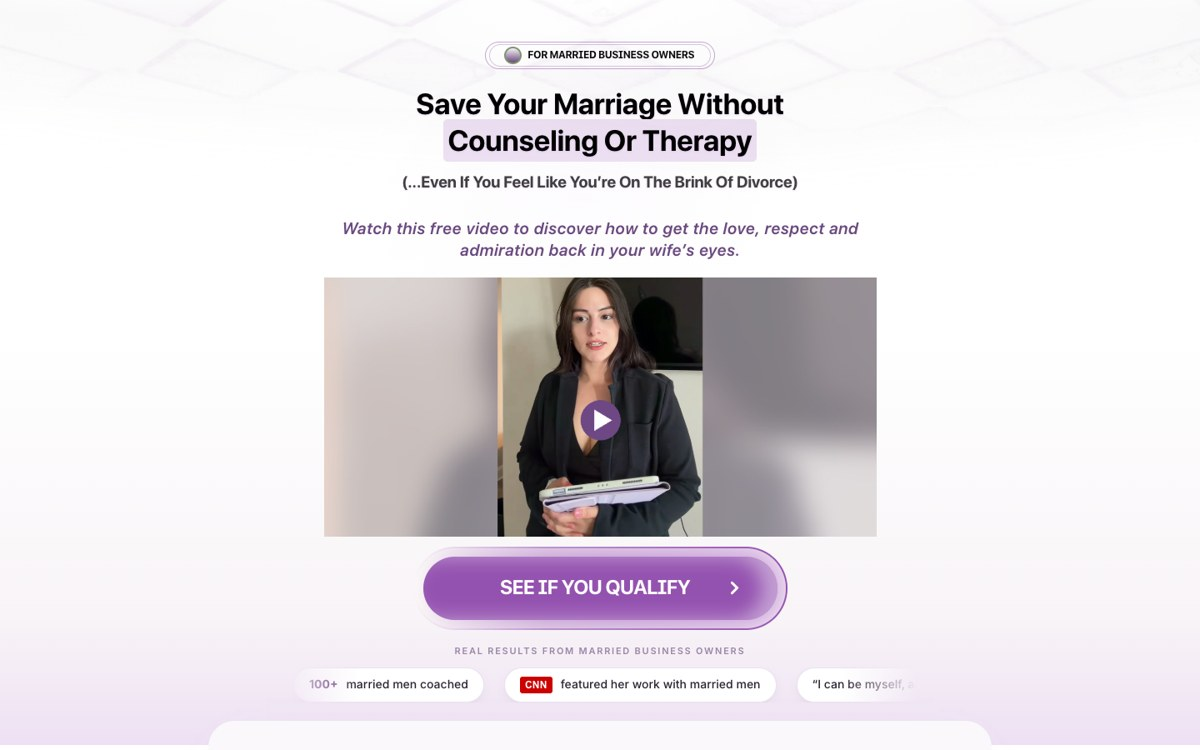
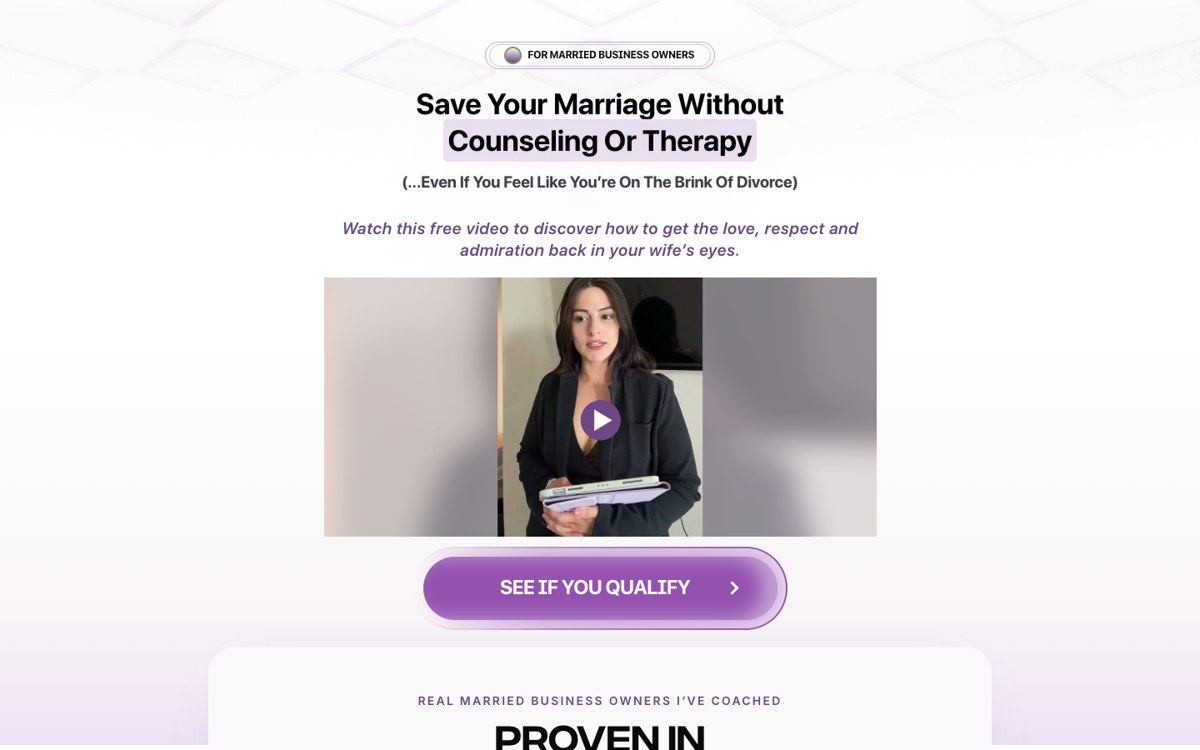
VSL page: real client testimonials instead of results bar; hub beat 02 about men not ready for a call

Changed region(s): [[0.2467, 0.8587, 0.6475, 1.0], [0.6783, 0.8893, 0.7708, 0.92]]

diff --git a/video/index.html b/video/index.html
@@ -337,7 +337,7 @@
 	<!-- Global site tag (gtag.js) - Google Analytics -->
 	
 <style data-noscrollbar>html,body,*{scrollbar-width:none;-ms-overflow-style:none}html::-webkit-scrollbar,body::-webkit-scrollbar,*::-webkit-scrollbar{display:none;width:0;height:0}</style>
-<style>[data-framer-name="TESTIMONIALS"]{display:none!important}.rx{margin:6px auto 0;max-width:760px;text-align:center}.rx-l{font:600 11px/1 Inter,system-ui,sans-serif;letter-spacing:.16em;text-transform:uppercase;color:#9a86a6;margin:0 0 14px}.rx-w{position:relative;overflow:hidden;-webkit-mask-image:linear-gradient(90deg,transparent,#000 12%,#000 88%,transparent);mask-image:linear-gradient(90deg,transparent,#000 12%,#000 88%,transparent)}.rx-t{display:flex;width:max-content;animation:rxs 34s linear infinite}.rx-t:hover{animation-play-state:paused}.rx-i{display:flex;align-items:center;gap:10px;margin:0 12px;padding:10px 18px;border-radius:999px;background:#fff;border:1px solid #eadff0;box-shadow:0 6px 18px -12px rgba(94,52,115,.45);white-space:nowrap;font:500 14px/1.2 Inter,system-ui,sans-serif;color:#2a2230}.rx-i b{font-weight:800;color:#5e3473}.rx-i .cnn{background:#cc0000;color:#fff;font:900 12px/1 Arial,sans-serif;padding:4px 6px;border-radius:3px;letter-spacing:.02em}@keyframes rxs{to{transform:translateX(-50%)}}@media (max-width:640px){.rx-i{font-size:12.5px;padding:8px 14px;margin:0 7px}.rx-t{animation-duration:26s}}@media (prefers-reduced-motion:reduce){.rx-t{animation:none}}</style></head>
+<style>[data-framer-name="TESTIMONIALS"]{display:none!important}</style><style>.tq-g{display:grid;grid-template-columns:repeat(3,1fr);gap:16px;margin-top:26px}.tq-c{margin:0;border-radius:18px;overflow:hidden;background:#fff;border:1px solid #eadff0;box-shadow:0 18px 34px -24px rgba(94,52,115,.55)}.tq-c img{display:block;width:100%;height:auto}@media (max-width:640px){.tq-g{grid-template-columns:repeat(2,1fr);gap:10px}.tq-c{border-radius:12px}.tq-c:last-child{grid-column:1/-1;width:calc(50% - 5px);justify-self:center}}</style></head>
 <body>
 	
 	<!-- Start of bodyStart -->
@@ -345,7 +345,6 @@
     <!-- End of bodyStart -->
 	
 	<div id="main" data-framer-hydrate-v2="{&quot;routeId&quot;:&quot;h5i_oXUbv&quot;,&quot;localeId&quot;:&quot;default&quot;,&quot;breakpoints&quot;:[{&quot;hash&quot;:&quot;4s8koe&quot;,&quot;mediaQuery&quot;:&quot;(min-width: 1200px)&quot;},{&quot;hash&quot;:&quot;uwvbux&quot;,&quot;mediaQuery&quot;:&quot;(min-width: 810px) and (max-width: 1199.98px)&quot;},{&quot;hash&quot;:&quot;iz4sl3&quot;,&quot;mediaQuery&quot;:&quot;(min-width: 414px) and (max-width: 809.98px)&quot;},{&quot;hash&quot;:&quot;1br1e2t&quot;,&quot;mediaQuery&quot;:&quot;(max-width: 413.98px)&quot;}]}" data-framer-ssr-released-at="2026-09-29T13:05:31.037Z" data-framer-page-optimized-at="2026-09-29T19:42:05.962Z" data-framer-generated-page><!--$--><style data-framer-html-style>html body { background: rgb(255, 255, 255); }</style><div data-framer-root class="framer-X8zpi framer-Y1jLK framer-4s8koe" style="min-height:100vh;width:auto"><div class="framer-q2tiia"><div class="framer-1xpcqbd" data-framer-name="bg shape" style="transform:rotate(-43deg)"></div></div><div class="framer-17dakj4 hidden-4s8koe hidden-uwvbux hidden-iz4sl3"><div class="framer-msisua" data-border="true"><div class="framer-1wldt96" data-border="true" data-framer-name="Alert"><div class="framer-14oqm4g" data-framer-name="Pulse"><div class="framer-1hjm7bx" data-framer-name="Small"></div><div class="framer-rq7udd" data-framer-name="Big" style="will-change:transform;opacity:0.4;transform:none"></div></div><div class="framer-1khw9ha" data-framer-component-type="RichTextContainer" style="transform:none"><p dir="auto" style="--font-selector:Q1VTVE9NVjI7U0YgUHJvIERpc3BsYXkgQm9sZA==;--framer-font-family:&quot;SF Pro Display Bold&quot;, &quot;SF Pro Display Bold Placeholder&quot;, sans-serif;--framer-font-open-type-features:'cv01' on, 'cv09' on, 'cv11' on, 'cv05' on, 'ss03' on;--framer-font-size:12px;--framer-font-weight:700;--framer-letter-spacing:0.01em;--framer-text-color:var(--token-b268148b-59de-488b-84bf-ae89da343fe3, rgb(10, 10, 10))" class="framer-text">FOR MARRIED BUSINESS OWNERS</p></div></div></div></div><div class="framer-tpus61" data-framer-name="HERO"><div class="framer-1c7eb5z" data-framer-name="UPPERPART"><div class="framer-1u1eqik" data-framer-name="main"><div class="framer-3c9dne"><div class="framer-2tj5pi" data-framer-name="main"><div class="framer-csus2r"><div class="framer-efgnys" data-framer-name="main"><div class="framer-5fq69k hidden-1br1e2t" data-border="true"><div class="framer-k2ezid hidden-iz4sl3" data-border="true" data-framer-name="Alert"><div class="framer-17cyu9v" data-framer-name="Pulse"><div class="framer-1uqd4z8" data-framer-name="Small"></div><div class="framer-vag2ty" data-framer-name="Big" style="will-change:transform;opacity:0.4;transform:none"></div></div><div class="ssr-variant hidden-uwvbux"><div class="framer-bhxyn7" data-framer-component-type="RichTextContainer" style="transform:none"><p dir="auto" style="--font-selector:Q1VTVE9NVjI7U0YgUHJvIERpc3BsYXkgQm9sZA==;--framer-font-family:&quot;SF Pro Display Bold&quot;, &quot;SF Pro Display Bold Placeholder&quot;, sans-serif;--framer-font-open-type-features:'cv01' on, 'cv09' on, 'cv11' on, 'cv05' on, 'ss03' on;--framer-font-size:12px;--framer-font-weight:700;--framer-letter-spacing:0.01em;--framer-text-color:var(--token-b268148b-59de-488b-84bf-ae89da343fe3, rgb(10, 10, 10))" class="framer-text">FOR MARRIED BUSINESS OWNERS</p></div></div><div class="ssr-variant hidden-iz4sl3 hidden-1br1e2t hidden-4s8koe"><div class="framer-bhxyn7" data-framer-component-type="RichTextContainer" style="transform:none"><p dir="auto" style="--font-selector:Q1VTVE9NVjI7U0YgUHJvIERpc3BsYXkgQm9sZA==;--framer-font-family:&quot;SF Pro Display Bold&quot;, &quot;SF Pro Display Bold Placeholder&quot;, sans-serif;--framer-font-open-type-features:'cv01' on, 'cv09' on, 'cv11' on, 'cv05' on, 'ss03' on;--framer-font-size:11px;--framer-font-weight:700;--framer-letter-spacing:0.01em;--framer-text-color:var(--token-b268148b-59de-488b-84bf-ae89da343fe3, rgb(10, 10, 10))" class="framer-text">FOR MARRIED BUSINESS OWNERS</p></div></div></div><div class="framer-9qt16u hidden-4s8koe hidden-uwvbux" data-border="true"><div class="framer-vjqidj" data-border="true" data-framer-name="Alert"><div class="framer-1y2ulve" data-framer-name="Pulse"><div class="framer-k6xz6w" data-framer-name="Small"></div><div class="framer-11rk619" data-framer-name="Big" style="will-change:transform;opacity:0.4;transform:none"></div></div><div class="framer-1fw6d6x" data-framer-component-type="RichTextContainer" style="transform:none"><p dir="auto" style="--font-selector:Q1VTVE9NVjI7U0YgUHJvIERpc3BsYXkgQm9sZA==;--framer-font-family:&quot;SF Pro Display Bold&quot;, &quot;SF Pro Display Bold Placeholder&quot;, sans-serif;--framer-font-open-type-features:'cv01' on, 'cv09' on, 'cv11' on, 'cv05' on, 'ss03' on;--framer-font-size:12px;--framer-font-weight:700;--framer-letter-spacing:0.01em;--framer-text-color:var(--token-b268148b-59de-488b-84bf-ae89da343fe3, rgb(10, 10, 10))" class="framer-text">FOR MARRIED BUSINESS OWNERS</p></div></div></div></div><div class="ssr-variant hidden-iz4sl3 hidden-1br1e2t hidden-uwvbux"><div class="framer-1u7wy1i" data-framer-name="WTITLE2" data-selection="true" data-framer-component-type="RichTextContainer" style="transform:none"><p dir="auto" style="--font-selector:Q1VTVE9NVjI7U0YgUHJvIERpc3BsYXkgQm9sZA==;--framer-font-family:&quot;SF Pro Display Bold&quot;, &quot;SF Pro Display Bold Placeholder&quot;, sans-serif;--framer-font-size:35px;--framer-font-weight:700;--framer-line-height:1.25em;--framer-text-alignment:center" class="framer-text">Save Your Marriage Without</p><p dir="auto" style="--font-selector:Q1VTVE9NVjI7U0YgUHJvIERpc3BsYXkgQm9sZA==;--framer-font-family:&quot;SF Pro Display Bold&quot;, &quot;SF Pro Display Bold Placeholder&quot;, sans-serif;--framer-font-size:35px;--framer-font-weight:700;--framer-line-height:1.25em;--framer-text-alignment:center" class="framer-text"><mark style="--framer-text-background-color:rgb(237, 224, 243);--framer-text-background-padding:5px;--framer-text-background-radius:5px" class="framer-text">Counseling Or Therapy</mark><span class="rp-wo">(...Even If You Feel Like You&rsquo;re On The Brink Of Divorce)</span></p></div></div><div class="ssr-variant hidden-1br1e2t hidden-uwvbux hidden-4s8koe"><div class="framer-1u7wy1i" data-framer-name="WTITLE2" data-selection="true" data-framer-component-type="RichTextContainer" style="transform:none"><p dir="auto" style="--font-selector:Q1VTVE9NVjI7U0YgUHJvIERpc3BsYXkgQm9sZA==;--framer-font-family:&quot;SF Pro Display Bold&quot;, &quot;SF Pro Display Bold Placeholder&quot;, sans-serif;--framer-font-size:27px;--framer-font-weight:700;--framer-line-height:1.25em;--framer-text-alignment:center" class="framer-text">Save Your Marriage Without</p><p dir="auto" style="--font-selector:Q1VTVE9NVjI7U0YgUHJvIERpc3BsYXkgQm9sZA==;--framer-font-family:&quot;SF Pro Display Bold&quot;, &quot;SF Pro Display Bold Placeholder&quot;, sans-serif;--framer-font-size:27px;--framer-font-weight:700;--framer-line-height:1.25em;--framer-text-alignment:center" class="framer-text"><mark style="--framer-text-background-color:rgb(237, 224, 243);--framer-text-background-padding:5px;--framer-text-background-radius:5px" class="framer-text">Counseling Or Therapy</mark><span class="rp-wo">(...Even If You Feel Like You&rsquo;re On The Brink Of Divorce)</span></p></div></div><div class="ssr-variant hidden-iz4sl3 hidden-uwvbux hidden-4s8koe"><div class="framer-1u7wy1i" data-framer-name="WTITLE2" data-selection="true" data-framer-component-type="RichTextContainer" style="transform:none"><p dir="auto" style="--font-selector:Q1VTVE9NVjI7U0YgUHJvIERpc3BsYXkgQm9sZA==;--framer-font-family:&quot;SF Pro Display Bold&quot;, &quot;SF Pro Display Bold Placeholder&quot;, sans-serif;--framer-font-size:25px;--framer-font-weight:700;--framer-line-height:1.25em;--framer-text-alignment:center" class="framer-text">Save Your Marriage Without</p><p dir="auto" style="--font-selector:Q1VTVE9NVjI7U0YgUHJvIERpc3BsYXkgQm9sZA==;--framer-font-family:&quot;SF Pro Display Bold&quot;, &quot;SF Pro Display Bold Placeholder&quot;, sans-serif;--framer-font-size:25px;--framer-font-weight:700;--framer-line-height:1.25em;--framer-text-alignment:center" class="framer-text"><mark style="--framer-text-background-color:rgb(237, 224, 243);--framer-text-background-padding:5px;--framer-text-background-radius:5px" class="framer-text">Counseling Or Therapy</mark><span class="rp-wo">(...Even If You Feel Like You&rsquo;re On The Brink Of Divorce)</span></p></div></div><div class="ssr-variant hidden-iz4sl3 hidden-1br1e2t hidden-4s8koe"><div class="framer-1u7wy1i" data-framer-name="WTITLE2" data-selection="true" data-framer-component-type="RichTextContainer" style="transform:none"><p dir="auto" style="--font-selector:Q1VTVE9NVjI7U0YgUHJvIERpc3BsYXkgQm9sZA==;--framer-font-family:&quot;SF Pro Display Bold&quot;, &quot;SF Pro Display Bold Placeholder&quot;, sans-serif;--framer-font-size:35px;--framer-font-weight:700;--framer-line-height:1.25em;--framer-text-alignment:center" class="framer-text">Save Your Marriage Without</p><p dir="auto" style="--font-selector:Q1VTVE9NVjI7U0YgUHJvIERpc3BsYXkgQm9sZA==;--framer-font-family:&quot;SF Pro Display Bold&quot;, &quot;SF Pro Display Bold Placeholder&quot;, sans-serif;--framer-font-size:35px;--framer-font-weight:700;--framer-line-height:1.25em;--framer-text-alignment:center" class="framer-text"><mark style="--framer-text-background-color:rgb(237, 224, 243);--framer-text-background-padding:5px;--framer-text-background-radius:5px" class="framer-text">Counseling Or Therapy</mark><span class="rp-wo">(...Even If You Feel Like You&rsquo;re On The Brink Of Divorce)</span></p></div></div><div class="ssr-variant hidden-iz4sl3 hidden-1br1e2t"><div class="framer-133eyea hidden-uwvbux" data-framer-name="WSUB2" data-selection="true" data-framer-component-type="RichTextContainer" style="transform:none"><p dir="auto" style="--font-selector:Q1VTVE9NVjI7U0YgUHJvIERpc3BsYXkgU2VtaWJvbGQgSXRhbGlj;--framer-font-family:&quot;SF Pro Display Semibold Italic&quot;, &quot;SF Pro Display Semibold Italic Placeholder&quot;, sans-serif;--framer-font-size:20px;--framer-font-weight:600;--framer-letter-spacing:0.03em;--framer-line-height:1.3em;--framer-text-alignment:center;--framer-text-color:var(--token-60dd54ff-967d-4bdd-a395-66d9ee4c573e, rgb(130, 150, 114))" class="framer-text">Watch this free video to discover how to get the love, respect and admiration back in your wife&rsquo;s eyes.</p></div></div><div class="ssr-variant hidden-1br1e2t hidden-uwvbux hidden-4s8koe"><div class="framer-133eyea hidden-uwvbux" data-framer-name="WSUB2" data-selection="true" data-framer-component-type="RichTextContainer" style="transform:none"><p dir="auto" style="--font-selector:Q1VTVE9NVjI7U0YgUHJvIERpc3BsYXkgU2VtaWJvbGQgSXRhbGlj;--framer-font-family:&quot;SF Pro Display Semibold Italic&quot;, &quot;SF Pro Display Semibold Italic Placeholder&quot;, sans-serif;--framer-font-size:18px;--framer-font-weight:600;--framer-letter-spacing:0.03em;--framer-line-height:20px;--framer-text-alignment:center;--framer-text-color:var(--token-60dd54ff-967d-4bdd-a395-66d9ee4c573e, rgb(130, 150, 114))" class="framer-text">Watch this free video to discover how to get</p><p dir="auto" style="--font-selector:Q1VTVE9NVjI7U0YgUHJvIERpc3BsYXkgU2VtaWJvbGQgSXRhbGlj;--framer-font-family:&quot;SF Pro Display Semibold Italic&quot;, &quot;SF Pro Display Semibold Italic Placeholder&quot;, sans-serif;--framer-font-size:18px;--framer-font-weight:600;--framer-letter-spacing:0.03em;--framer-line-height:20px;--framer-text-alignment:center;--framer-text-color:var(--token-60dd54ff-967d-4bdd-a395-66d9ee4c573e, rgb(130, 150, 114))" class="framer-text">the love, respect and admiration back in your wife&rsquo;s eyes.</p></div></div><div class="ssr-variant hidden-iz4sl3 hidden-uwvbux hidden-4s8koe"><div class="framer-133eyea hidden-uwvbux" data-framer-name="WSUB2" data-selection="true" data-framer-component-type="RichTextContainer" style="transform:none"><p dir="auto" style="--font-selector:Q1VTVE9NVjI7U0YgUHJvIERpc3BsYXkgU2VtaWJvbGQgSXRhbGlj;--framer-font-family:&quot;SF Pro Display Semibold Italic&quot;, &quot;SF Pro Display Semibold Italic Placeholder&quot;, sans-serif;--framer-font-size:17px;--framer-font-weight:600;--framer-letter-spacing:0.03em;--framer-line-height:20px;--framer-text-alignment:center;--framer-text-color:var(--token-60dd54ff-967d-4bdd-a395-66d9ee4c573e, rgb(130, 150, 114))" class="framer-text">Watch this free video to discover how to get</p><p dir="auto" style="--font-selector:Q1VTVE9NVjI7U0YgUHJvIERpc3BsYXkgU2VtaWJvbGQgSXRhbGlj;--framer-font-family:&quot;SF Pro Display Semibold Italic&quot;, &quot;SF Pro Display Semibold Italic Placeholder&quot;, sans-serif;--framer-font-size:17px;--framer-font-weight:600;--framer-letter-spacing:0.03em;--framer-line-height:20px;--framer-text-alignment:center;--framer-text-color:var(--token-60dd54ff-967d-4bdd-a395-66d9ee4c573e, rgb(130, 150, 114))" class="framer-text">the love, respect and admiration back in your wife&rsquo;s eyes.</p></div></div><div class="framer-5onn8g-container" data-framer-name="main" name="main"><!--$--><div class="ssr-variant hidden-iz4sl3 hidden-1br1e2t"><img src="../assets/img/lp/vsl_thumb.jpg" alt="Watch the video" style="display:block;width:100%;height:auto;aspect-ratio:2.1333;object-fit:cover;border-radius:inherit;cursor:pointer"></div><div class="ssr-variant hidden-uwvbux hidden-4s8koe"><img src="../assets/img/lp/vsl_thumb.jpg" alt="Watch the video" style="display:block;width:100%;height:auto;aspect-ratio:2.1333;object-fit:cover;border-radius:inherit;cursor:pointer"></div><!--/$--></div><div class="framer-9o72vd hidden-4s8koe hidden-1br1e2t hidden-iz4sl3" data-framer-name="WSUB2" data-selection="true" data-framer-component-type="RichTextContainer" style="transform:none"><p dir="auto" style="--font-selector:Q1VTVE9NVjI7U0YgUHJvIERpc3BsYXkgU2VtaWJvbGQgSXRhbGlj;--framer-font-family:&quot;SF Pro Display Semibold Italic&quot;, &quot;SF Pro Display Semibold Italic Placeholder&quot;, sans-serif;--framer-font-size:20px;--framer-font-weight:600;--framer-letter-spacing:0.03em;--framer-line-height:1.3em;--framer-text-alignment:center;--framer-text-color:var(--token-60dd54ff-967d-4bdd-a395-66d9ee4c573e, rgb(130, 150, 114))" class="framer-text">Watch this free video to discover how to get the love, respect and admiration back in your wife&rsquo;s eyes.</p></div></div></div></div></div></div></div><div class="framer-2bt8ym" data-framer-name="LOWERPART"><div class="framer-mkelf" id="mkelf"><div class="framer-r6ybmd"><div class="framer-km6ps3"><div class="framer-u14wqm"><div class="framer-1habm5t"><div class="ssr-variant hidden-iz4sl3 hidden-1br1e2t"><div class="framer-65of25-container" id="65of25"><!--$--><a class="framer-fKeW8 framer-1ylc52x framer-v-1ylc52x framer-1djlza1" data-framer-name="Variant 1" data-highlight="true" tabindex="0" style="background:linear-gradient(90deg, rgba(255, 255, 255, 0) 0%, rgba(148,82,176, 0.6) 35.63529349662162%, var(--token-78ab1caa-2397-409b-a711-af0f2c84a0c3, rgb(148, 82, 176)) 100%);border-bottom-left-radius:99999px;border-bottom-right-radius:99999px;border-top-left-radius:99999px;border-top-right-radius:99999px"><div class="framer-hbrjzz" style="background:linear-gradient(270deg, rgb(207, 169, 223) 0%, rgba(234,228,237, 0) 100%);border-bottom-left-radius:99999px;border-bottom-right-radius:99999px;border-top-left-radius:99999px;border-top-right-radius:99999px;box-shadow:inset -1px 0px 26px 4px rgba(253, 250, 247, 0.71)"><div class="framer-5opsfe" style="background-color:var(--token-78ab1caa-2397-409b-a711-af0f2c84a0c3, rgb(151, 92, 176));border-bottom-left-radius:99999px;border-bottom-right-radius:99999px;border-top-left-radius:99999px;border-top-right-radius:99999px;box-shadow:inset -17px 0px 21px 1px rgba(255, 255, 255, 0.44)"><div class="framer-1hrjr2s"><div class="framer-w7ozlh" data-framer-component-type="RichTextContainer" style="--extracted-1of0zx5:rgb(255, 255, 255);--framer-link-text-color:rgb(0, 153, 255);--framer-link-text-decoration:underline;transform:translate(-50%, -50%)"><h2 dir="auto" class="framer-text" style="--font-selector:Q1VTVE9NVjI7U0YgUHJvIERpc3BsYXkgQm9sZA==;--framer-font-family:&quot;SF Pro Display Bold&quot;, &quot;SF Pro Display Bold Placeholder&quot;, sans-serif;--framer-font-open-type-features:'cv01' on, 'cv09' on, 'cv11' on, 'cv05' on, 'ss03' on;--framer-font-size:24px;--framer-font-weight:700;--framer-letter-spacing:-0.02em;--framer-line-height:1em;--framer-text-alignment:center;--framer-text-color:var(--extracted-1of0zx5, rgb(255, 255, 255))">SEE IF YOU QUALIFY</h2></div><div data-framer-component-type="SVG" parentsize="0" _constraints="[object Object]" rotation="0" shadows class="framer-12bnssz" aria-hidden="true" style="image-rendering:pixelated;flex-shrink:0;fill:rgb(255, 255, 255);color:rgb(255, 255, 255)"><div class="svgContainer" style="width:100%;height:100%;aspect-ratio:inherit"><svg style="width:100%;height:100%;"><use href="#svg-866811255_189"/></svg></div></div><div data-framer-component-type="SVG" parentsize="0" _constraints="[object Object]" rotation="0" shadows class="framer-dgrylw" aria-hidden="true" style="image-rendering:pixelated;flex-shrink:0;fill:var(--token-1ee6d819-e713-432d-a5bd-cf23d9294804, rgb(234, 234, 234));color:var(--token-1ee6d819-e713-432d-a5bd-cf23d9294804, rgb(234, 234, 234))"><div class="svgContainer" style="width:100%;height:100%;aspect-ratio:inherit"><svg style="width:100%;height:100%;"><use href="#svg-866811255_189"/></svg></div></div></div></div></div></a><!--/$--></div></div><div class="ssr-variant hidden-uwvbux hidden-4s8koe"><div class="framer-65of25-container" id="65of25"><!--$--><a class="framer-fKeW8 framer-1ylc52x framer-v-15c24n7 framer-1djlza1" data-framer-name="Mobile" data-highlight="true" tabindex="0" style="background:linear-gradient(90deg, rgba(255, 255, 255, 0) 0%, rgba(148,82,176, 0.6) 35.63529349662162%, var(--token-78ab1caa-2397-409b-a711-af0f2c84a0c3, rgb(148, 82, 176)) 100%);border-bottom-left-radius:99999px;border-bottom-right-radius:99999px;border-top-left-radius:99999px;border-top-right-radius:99999px"><div class="framer-hbrjzz" style="background:linear-gradient(270deg, rgb(207, 169, 223) 0%, rgba(234,228,237, 0) 100%);border-bottom-left-radius:99999px;border-bottom-right-radius:99999px;border-top-left-radius:99999px;border-top-right-radius:99999px;box-shadow:inset -1px 0px 26px 4px rgba(253, 250, 247, 0.71)"><div class="framer-5opsfe" style="background-color:var(--token-78ab1caa-2397-409b-a711-af0f2c84a0c3, rgb(151, 92, 176));border-bottom-left-radius:99999px;border-bottom-right-radius:99999px;border-top-left-radius:99999px;border-top-right-radius:99999px;box-shadow:inset -17px 0px 21px 1px rgba(255, 255, 255, 0.44)"><div class="framer-1hrjr2s"><div class="framer-w7ozlh" data-framer-component-type="RichTextContainer" style="--extracted-1of0zx5:rgb(255, 255, 255);--framer-link-text-color:rgb(0, 153, 255);--framer-link-text-decoration:underline;transform:translate(-50%, -50%)"><h2 dir="auto" class="framer-text" style="--font-selector:Q1VTVE9NVjI7U0YgUHJvIERpc3BsYXkgQm9sZA==;--framer-font-family:&quot;SF Pro Display Bold&quot;, &quot;SF Pro Display Bold Placeholder&quot;, sans-serif;--framer-font-open-type-features:'cv01' on, 'cv09' on, 'cv11' on, 'cv05' on, 'ss03' on;--framer-font-size:22px;--framer-font-weight:700;--framer-letter-spacing:-0.02em;--framer-line-height:1em;--framer-text-alignment:center;--framer-text-color:var(--extracted-1of0zx5, rgb(255, 255, 255))">SEE IF YOU QUALIFY</h2></div><div data-framer-component-type="SVG" parentsize="0" _constraints="[object Object]" rotation="0" shadows class="framer-12bnssz" aria-hidden="true" style="image-rendering:pixelated;flex-shrink:0;fill:rgb(255, 255, 255);color:rgb(255, 255, 255)"><div class="svgContainer" style="width:100%;height:100%;aspect-ratio:inherit"><svg style="width:100%;height:100%;"><use href="#svg-866811255_189"/></svg></div></div></div></div></div></a><!--/$--></div></div></div></div></div></div></div></div></div><div class="framer-1kycvi1 hidden-4s8koe hidden-uwvbux"><div class="framer-gh8c0y"><div class="framer-9itru8" data-framer-name="bg shape" style="transform:rotate(-43deg)"></div></div></div><div class="framer-pqhicm" style="transform:translateX(-50%)"><div class="framer-1l29gjx" data-framer-name="bg shape" style="transform:rotate(-43deg)"></div></div><div class="framer-10c3wkd"><div class="framer-1la01sa" data-framer-name="bg shape" style="transform:rotate(-43deg)"></div></div><section class="rp-more">
-<div class="rx"><p class="rx-l">Real results from married business owners</p><div class="rx-w"><div class="rx-t" aria-label="Client results"><span class="rx-i"><b>100+</b> married men coached</span><span class="rx-i"><span class="cnn">CNN</span> featured her work with married men</span><span class="rx-i">&ldquo;I can be myself, and that&rsquo;s okay&rdquo; <b>&middot; client, 30 days in</b></span><span class="rx-i"><b>1.4M</b> views on one video</span><span class="rx-i"><b>Zero</b> couples therapy</span><span class="rx-i"><b>100+</b> married men coached</span><span class="rx-i"><span class="cnn">CNN</span> featured her work with married men</span><span class="rx-i">&ldquo;I can be myself, and that&rsquo;s okay&rdquo; <b>&middot; client, 30 days in</b></span><span class="rx-i"><b>1.4M</b> views on one video</span><span class="rx-i"><b>Zero</b> couples therapy</span></div></div></div>
 <div class="rp-sec">
   <p class="rp-kick">Real married business owners I&rsquo;ve coached</p>
   <h2 class="rp-h"><span>PROVEN IN</span><span class="g">REAL MARRIAGES.</span></h2>
@@ -355,7 +354,12 @@
     <div><b>1.4M</b><span>views on one video, because men see their own marriage in it</span></div>
     <div><b>CNN</b><span>featured my work with married men and the way I coach them</span></div>
   </div>
-  <p class="rp-note">Their fights got shorter and stopped spiraling into old history. Their wives finally understood what had been bothering them. More of it lands in my &ldquo;Testimonials&rdquo; highlight.</p>
+  <p class="rp-note">One couple who run a business together went from fighting every day to going weeks without a fight. Here&rsquo;s what my clients say in their own words.</p>
+</div>
+<div class="rp-sec tq">
+  <p class="rp-kick">Client testimonials</p>
+  <h2 class="rp-h"><span>REAL CLIENTS.</span><span class="g">REAL WORDS.</span></h2>
+  <div class="tq-g"><figure class="tq-c"><img src="../assets/img/testi/t1.jpg" alt="Client testimonial: this is one of the best investments I have ever made" loading="lazy"></figure><figure class="tq-c"><img src="../assets/img/testi/t2.jpg" alt="Client testimonial video" loading="lazy"></figure><figure class="tq-c"><img src="../assets/img/testi/t3.jpg" alt="A CEO of a 7 figure software company was too nice with his team" loading="lazy"></figure><figure class="tq-c"><img src="../assets/img/testi/t4.jpg" alt="After working together his revenue doubled and he felt like himself" loading="lazy"></figure><figure class="tq-c"><img src="../assets/img/testi/t5.jpg" alt="Here is what he had to say" loading="lazy"></figure><figure class="tq-c"><img src="../assets/img/testi/t6.jpg" alt="Client: other therapists don't think as deep as you" loading="lazy"></figure><figure class="tq-c"><img src="../assets/img/testi/t7.jpg" alt="They tried therapy, it didn't work: make it work or get divorced" loading="lazy"></figure><figure class="tq-c"><img src="../assets/img/testi/t8.jpg" alt="It was worth every cent" loading="lazy"></figure><figure class="tq-c"><img src="../assets/img/testi/t9.jpg" alt="After coaching, this couple goes weeks without fighting" loading="lazy"></figure></div>
 </div>
 <div class="rp-sec">
   <p class="rp-kick">01 &middot; Sound familiar?</p>

diff --git a/index.html b/index.html
@@ -152,8 +152,8 @@
           <div class="beat__num"><span class="beat__idx">02</span><span class="beat__rule"></span></div>
           <div class="beat__copy">
             <p class="beat__kicker">Your funnel</p>
-            <h3 class="beat__title">There&rsquo;s no free step before the call.</h3>
-            <p class="beat__text">Right now there&rsquo;s nothing between a 30-second role play and a 30-minute Zoom with you. A video page would do that job for you: he watches you explain your method, sees what changed for men like him, and books a call already warm, around the clock.</p>
+            <h3 class="beat__title">If he isn&rsquo;t ready for a call, he has nowhere to go.</h3>
+            <p class="beat__text">Right now there&rsquo;s nothing between your Reels and a call. A lot of married men aren&rsquo;t ready to talk to anyone about their marriage yet, so they scroll away and you never hear from them. A free course gives them an easier first step, and emails in the background keep helping them until they&rsquo;re ready to book.</p>
           </div>
         </article>
 
@@ -197,11 +197,11 @@
             <span class="group__rule"></span>
           </div>
           <div class="grid grid--2">
-            <button class="pcard reveal" data-title="Your profile, upgraded" data-embed="ig-profile/?v=d5">
+            <button class="pcard reveal" data-title="Your profile, upgraded" data-embed="ig-profile/?v=d6">
               <span class="thumb"><span class="thumb__bar"><i></i><i></i><i></i><span class="thumb__url">today vs upgraded</span></span><img class="thumb__img" src="assets/img/igprofile-preview.jpg?v=4" alt="Your profile, upgraded preview" loading="lazy" /></span>
               <span class="pcard__body"><span><span class="pcard__kicker">The first thing they see</span><span class="pcard__title">Your profile, upgraded</span><span class="pcard__desc">Your real proof in the bio, one link to your free full course, new highlight covers and a &ldquo;Start here&rdquo; highlight.</span></span><span class="pcard__link">Open preview <span class="arrow" aria-hidden="true"></span></span></span>
             </button>
-            <button class="pcard reveal" data-title="Your new pinned post" data-embed="pinned-post/?v=d5" data-noanim>
+            <button class="pcard reveal" data-title="Your new pinned post" data-embed="pinned-post/?v=d6" data-noanim>
               <span class="thumb"><span class="thumb__bar"><i></i><i></i><i></i><span class="thumb__url">instagram.com/dianaprimecoaching</span></span><img class="thumb__img" src="assets/img/pinned-preview.jpg?v=3" alt="Your new pinned post preview" loading="lazy" /></span>
               <span class="pcard__body"><span><span class="pcard__kicker">Pinned carousel · 8 slides</span><span class="pcard__title">Your new pinned post</span><span class="pcard__desc">Plain text slides in the format behind one of the most shared text carousels on Instagram, ending with &ldquo;Comment the word SAVE&rdquo;.</span></span><span class="pcard__link">Open preview <span class="arrow" aria-hidden="true"></span></span></span>
             </button>
@@ -215,7 +215,7 @@
             <span class="group__rule"></span>
           </div>
           <div class="grid grid--1">
-            <button class="pcard pcard--wide reveal" data-title="Your YouTube flywheel" data-embed="youtube-flywheel/?v=d5">
+            <button class="pcard pcard--wide reveal" data-title="Your YouTube flywheel" data-embed="youtube-flywheel/?v=d6">
               <span class="thumb thumb--wide"><span class="thumb__bar"><i></i><i></i><i></i><span class="thumb__url">your free full course</span></span><img class="thumb__img" src="assets/img/flywheel-preview.jpg?v=3" alt="Your YouTube flywheel preview" loading="lazy" /></span>
               <span class="pcard__body"><span><span class="pcard__kicker">01 · Start here</span><span class="pcard__title">Your YouTube flywheel</span><span class="pcard__desc">One free full course on YouTube that does the selling: two thumbnail options, the course outline, the two links under every video and the pinned comment.</span></span><span class="pcard__link">Open preview <span class="arrow" aria-hidden="true"></span></span></span>
             </button>
@@ -229,11 +229,11 @@
             <span class="group__rule"></span>
           </div>
           <div class="grid grid--2">
-            <button class="pcard reveal" data-title="Video page + book a call" data-embed="video/?v=d5">
-              <span class="thumb"><span class="thumb__bar"><i></i><i></i><i></i><span class="thumb__url">your link in bio</span></span><img class="thumb__img" src="assets/img/video-preview.jpg?v=5" alt="Video page + book a call preview" loading="lazy" /></span>
+            <button class="pcard reveal" data-title="Video page + book a call" data-embed="video/?v=d6">
+              <span class="thumb"><span class="thumb__bar"><i></i><i></i><i></i><span class="thumb__url">your link in bio</span></span><img class="thumb__img" src="assets/img/video-preview.jpg?v=6" alt="Video page + book a call preview" loading="lazy" /></span>
               <span class="pcard__body"><span><span class="pcard__kicker">02 · Your link in bio</span><span class="pcard__title">Video page + book a call</span><span class="pcard__desc">Your video on top, real proof from men you&rsquo;ve coached, answers to every doubt, and a quick &ldquo;See if you qualify&rdquo; form that books the call.</span></span><span class="pcard__link">Open preview <span class="arrow" aria-hidden="true"></span></span></span>
             </button>
-            <button class="pcard reveal" data-title="Thank-you page" data-embed="thank-you/?v=d5">
+            <button class="pcard reveal" data-title="Thank-you page" data-embed="thank-you/?v=d6">
               <span class="thumb"><span class="thumb__bar"><i></i><i></i><i></i><span class="thumb__url">booked</span></span><img class="thumb__img" src="assets/img/thankyou-preview.jpg?v=3" alt="Thank-you page preview" loading="lazy" /></span>
               <span class="pcard__body"><span><span class="pcard__kicker">03 · Booked</span><span class="pcard__title">Thank-you page</span><span class="pcard__desc">Your welcome video plus short answers to the questions men ask before a call, so he shows up ready.</span></span><span class="pcard__link">Open preview <span class="arrow" aria-hidden="true"></span></span></span>
             </button>
@@ -247,7 +247,7 @@
             <span class="group__rule"></span>
           </div>
           <div class="grid grid--1">
-            <button class="pcard pcard--wide reveal" data-title="VSL script" data-embed="vsl-script/?v=d5">
+            <button class="pcard pcard--wide reveal" data-title="VSL script" data-embed="vsl-script/?v=d6">
               <span class="thumb thumb--wide"><span class="thumb__bar"><i></i><i></i><i></i><span class="thumb__url">script · 13 boxes</span></span><img class="thumb__img" src="assets/img/vslscript-preview.jpg?v=3" alt="VSL script preview" loading="lazy" /></span>
               <span class="pcard__body"><span><span class="pcard__kicker">~9 min · 13 boxes</span><span class="pcard__title">VSL script</span><span class="pcard__desc">Thirteen boxes on a proven running order, with your story, your role-play method and your real proof.</span></span><span class="pcard__link">Open preview <span class="arrow" aria-hidden="true"></span></span></span>
             </button>
@@ -261,15 +261,15 @@
             <span class="group__rule"></span>
           </div>
           <div class="grid grid--3">
-            <button class="pcard reveal" data-title="Static ad" data-embed="static-ad/?v=d5" data-noanim>
+            <button class="pcard reveal" data-title="Static ad" data-embed="static-ad/?v=d6" data-noanim>
               <span class="thumb"><span class="thumb__bar"><i></i><i></i><i></i><span class="thumb__url">instagram.com/dianaprimecoaching</span></span><img class="thumb__img" src="assets/img/static-ad-preview.jpg?v=3" alt="Static ad preview" loading="lazy" /></span>
               <span class="pcard__body"><span><span class="pcard__kicker">Meta ad · Image</span><span class="pcard__title">Static ad</span><span class="pcard__desc">A proof headline, a real client quote and a clear step to your free course on saving the marriage.</span></span><span class="pcard__link">Open preview <span class="arrow" aria-hidden="true"></span></span></span>
             </button>
-            <button class="pcard reveal" data-title="Instagram carousel ad" data-embed="carousel/phone/?v=d5" data-noanim>
+            <button class="pcard reveal" data-title="Instagram carousel ad" data-embed="carousel/phone/?v=d6" data-noanim>
               <span class="thumb"><span class="thumb__bar"><i></i><i></i><i></i><span class="thumb__url">instagram.com/dianaprimecoaching</span></span><img class="thumb__img" src="assets/img/carousel-preview.jpg?v=3" alt="Instagram carousel ad preview" loading="lazy" /></span>
               <span class="pcard__body"><span><span class="pcard__kicker">Meta ad · Carousel</span><span class="pcard__title">Instagram carousel ad</span><span class="pcard__desc">Nine slides on &ldquo;I used to be the wife who ran the marriage&rdquo;, ending on &ldquo;Comment the word SAVE&rdquo;.</span></span><span class="pcard__link">Open preview <span class="arrow" aria-hidden="true"></span></span></span>
             </button>
-            <button class="pcard reveal" data-title="3 ad scripts" data-embed="ad-scripts/?v=d5">
+            <button class="pcard reveal" data-title="3 ad scripts" data-embed="ad-scripts/?v=d6">
               <span class="thumb"><span class="thumb__bar"><i></i><i></i><i></i><span class="thumb__url">ad scripts</span></span><img class="thumb__img" src="assets/img/adscripts-preview.jpg?v=3" alt="3 ad scripts preview" loading="lazy" /></span>
               <span class="pcard__body"><span><span class="pcard__kicker">Primary text · 3 ads</span><span class="pcard__title">3 ad scripts</span><span class="pcard__desc">Three scripts for married business owners: a proof story, a curiosity hook and your own story, all with your real proof.</span></span><span class="pcard__link">Open preview <span class="arrow" aria-hidden="true"></span></span></span>
             </button>
@@ -283,7 +283,7 @@
             <span class="group__rule"></span>
           </div>
           <div class="grid grid--1">
-            <button class="pcard pcard--wide reveal" data-title="Opted-in email sequence" data-embed="opted-in/?v=d5">
+            <button class="pcard pcard--wide reveal" data-title="Opted-in email sequence" data-embed="opted-in/?v=d6">
               <span class="thumb thumb--wide"><span class="thumb__bar"><i></i><i></i><i></i><span class="thumb__url">sequence · 8 emails</span></span><img class="thumb__img" src="assets/img/optedin-preview.jpg?v=3" alt="Opted-in email sequence preview" loading="lazy" /></span>
               <span class="pcard__body"><span><span class="pcard__kicker">Opted in · D0 to D7</span><span class="pcard__title">Opted-in email sequence</span><span class="pcard__desc">A free welcome, then one lesson a day for 7 days, so he gets real value before any ask.</span></span><span class="pcard__link">Open preview <span class="arrow" aria-hidden="true"></span></span></span>
             </button>
